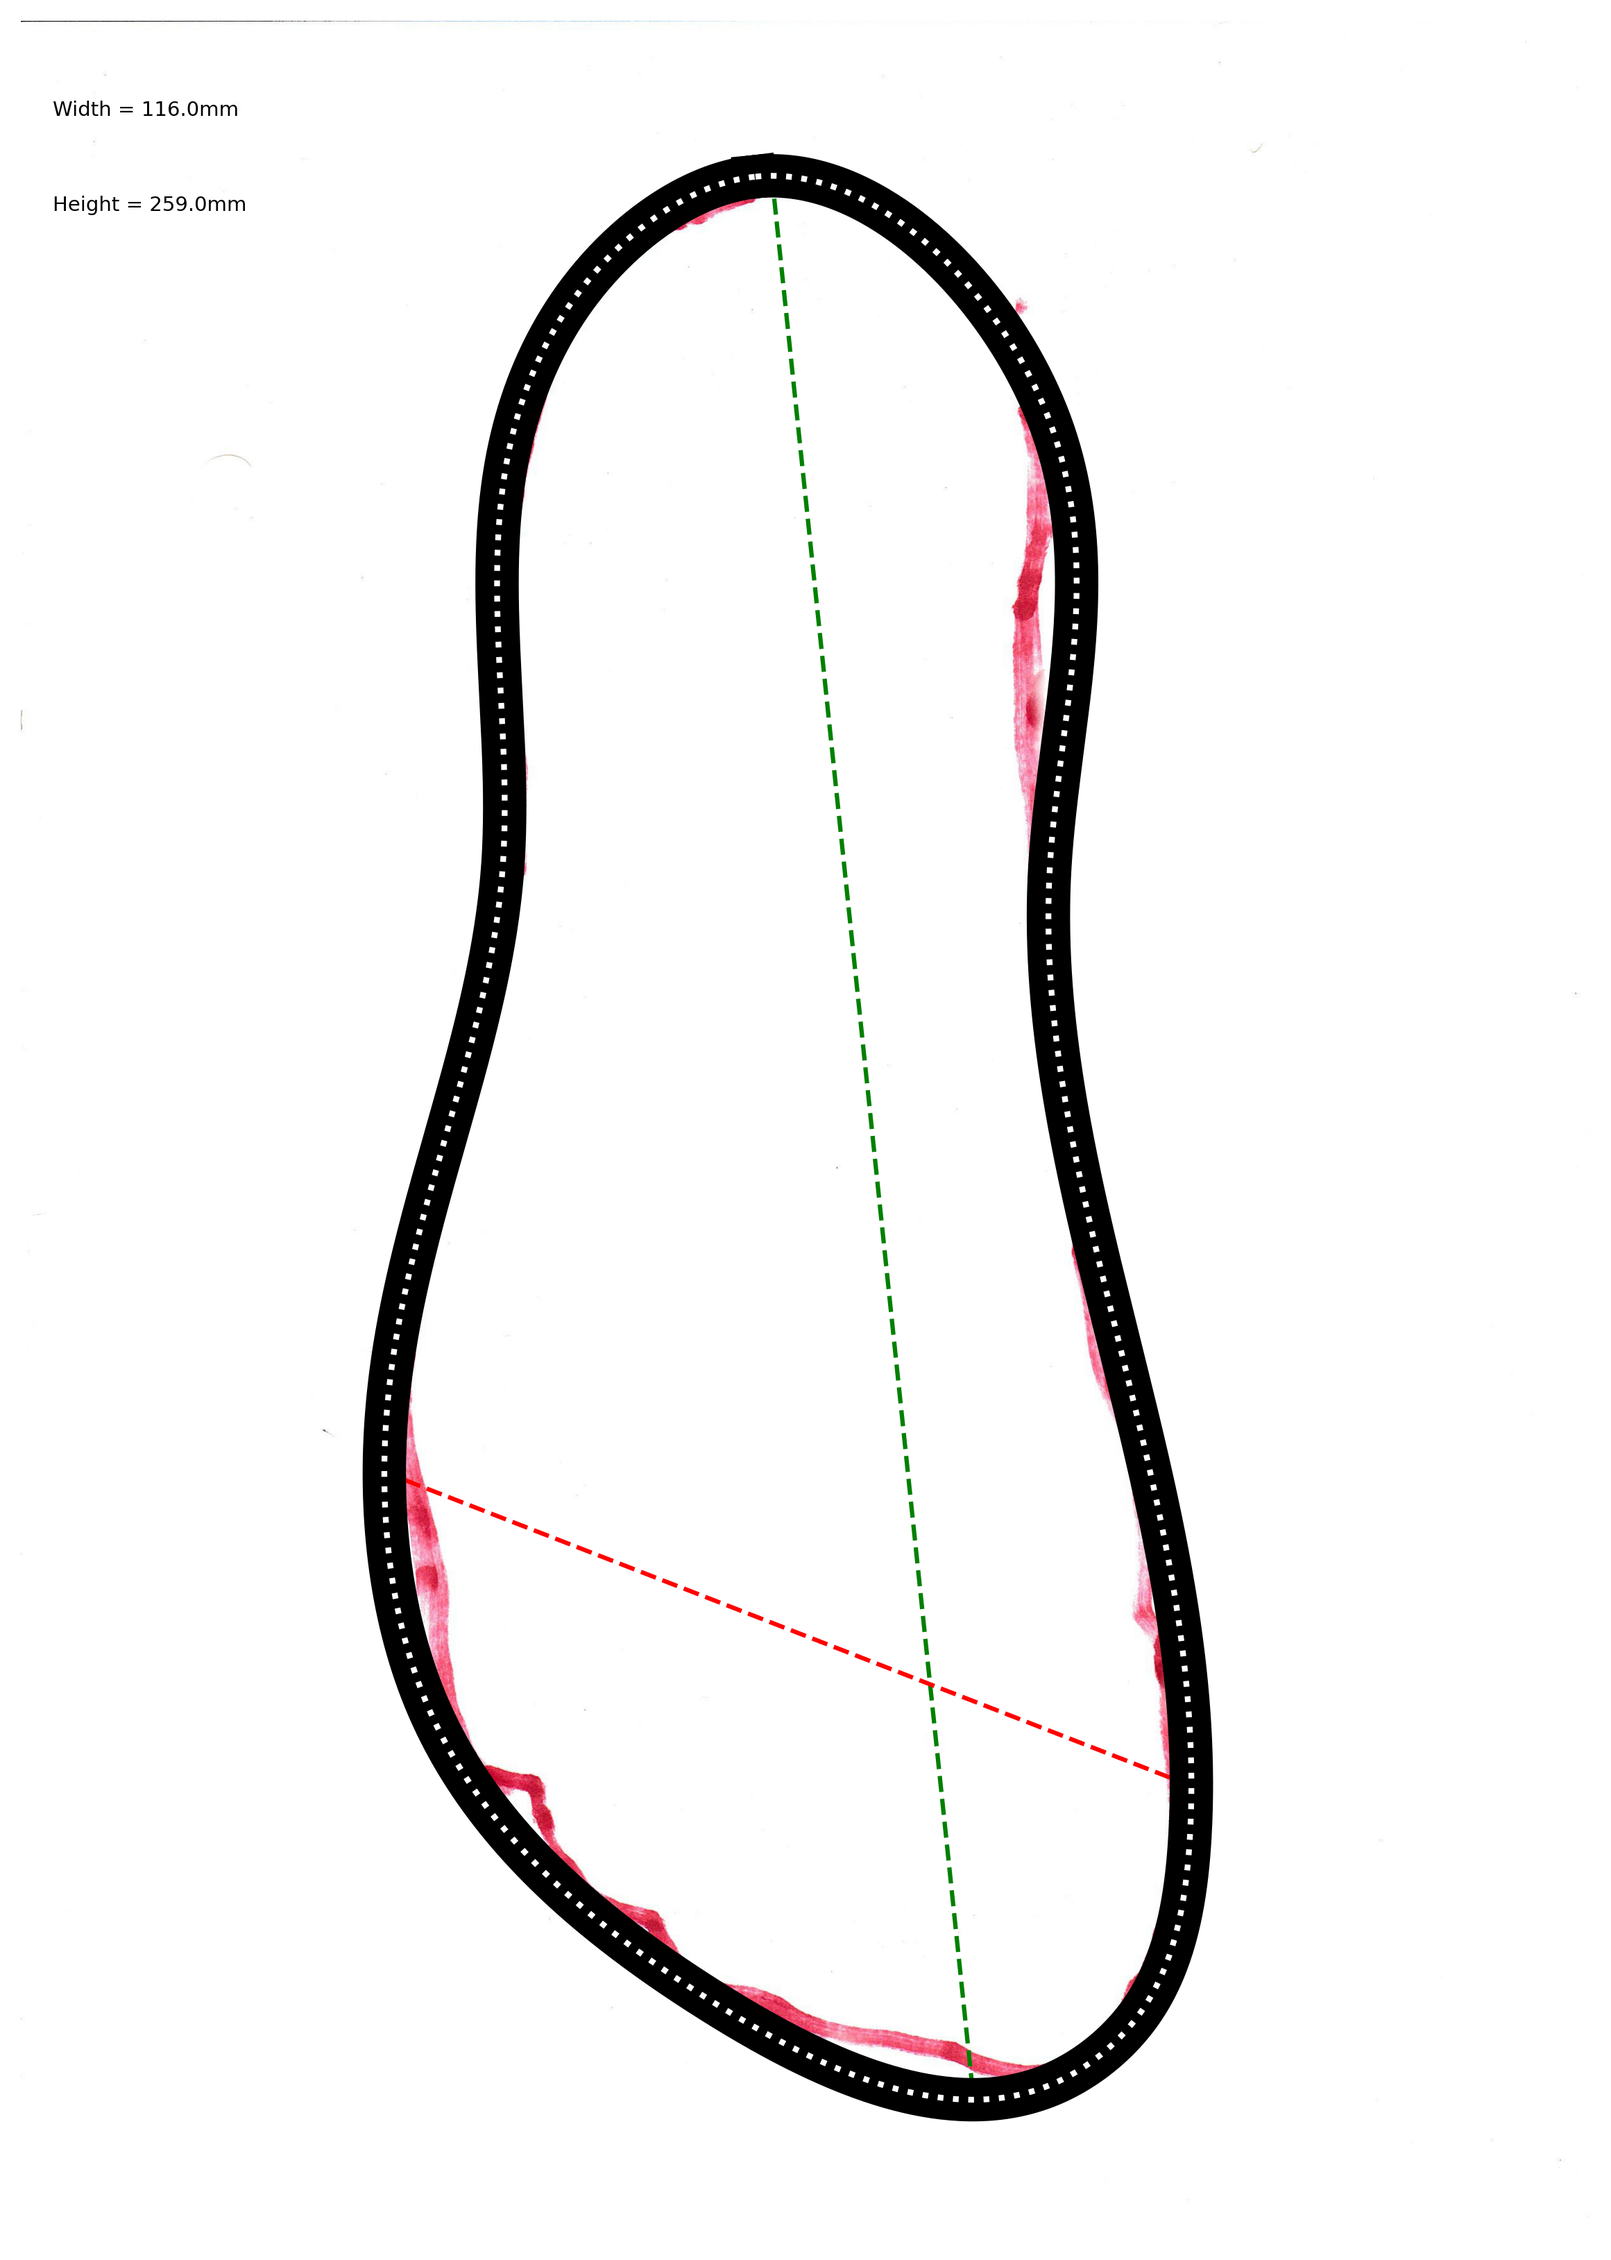
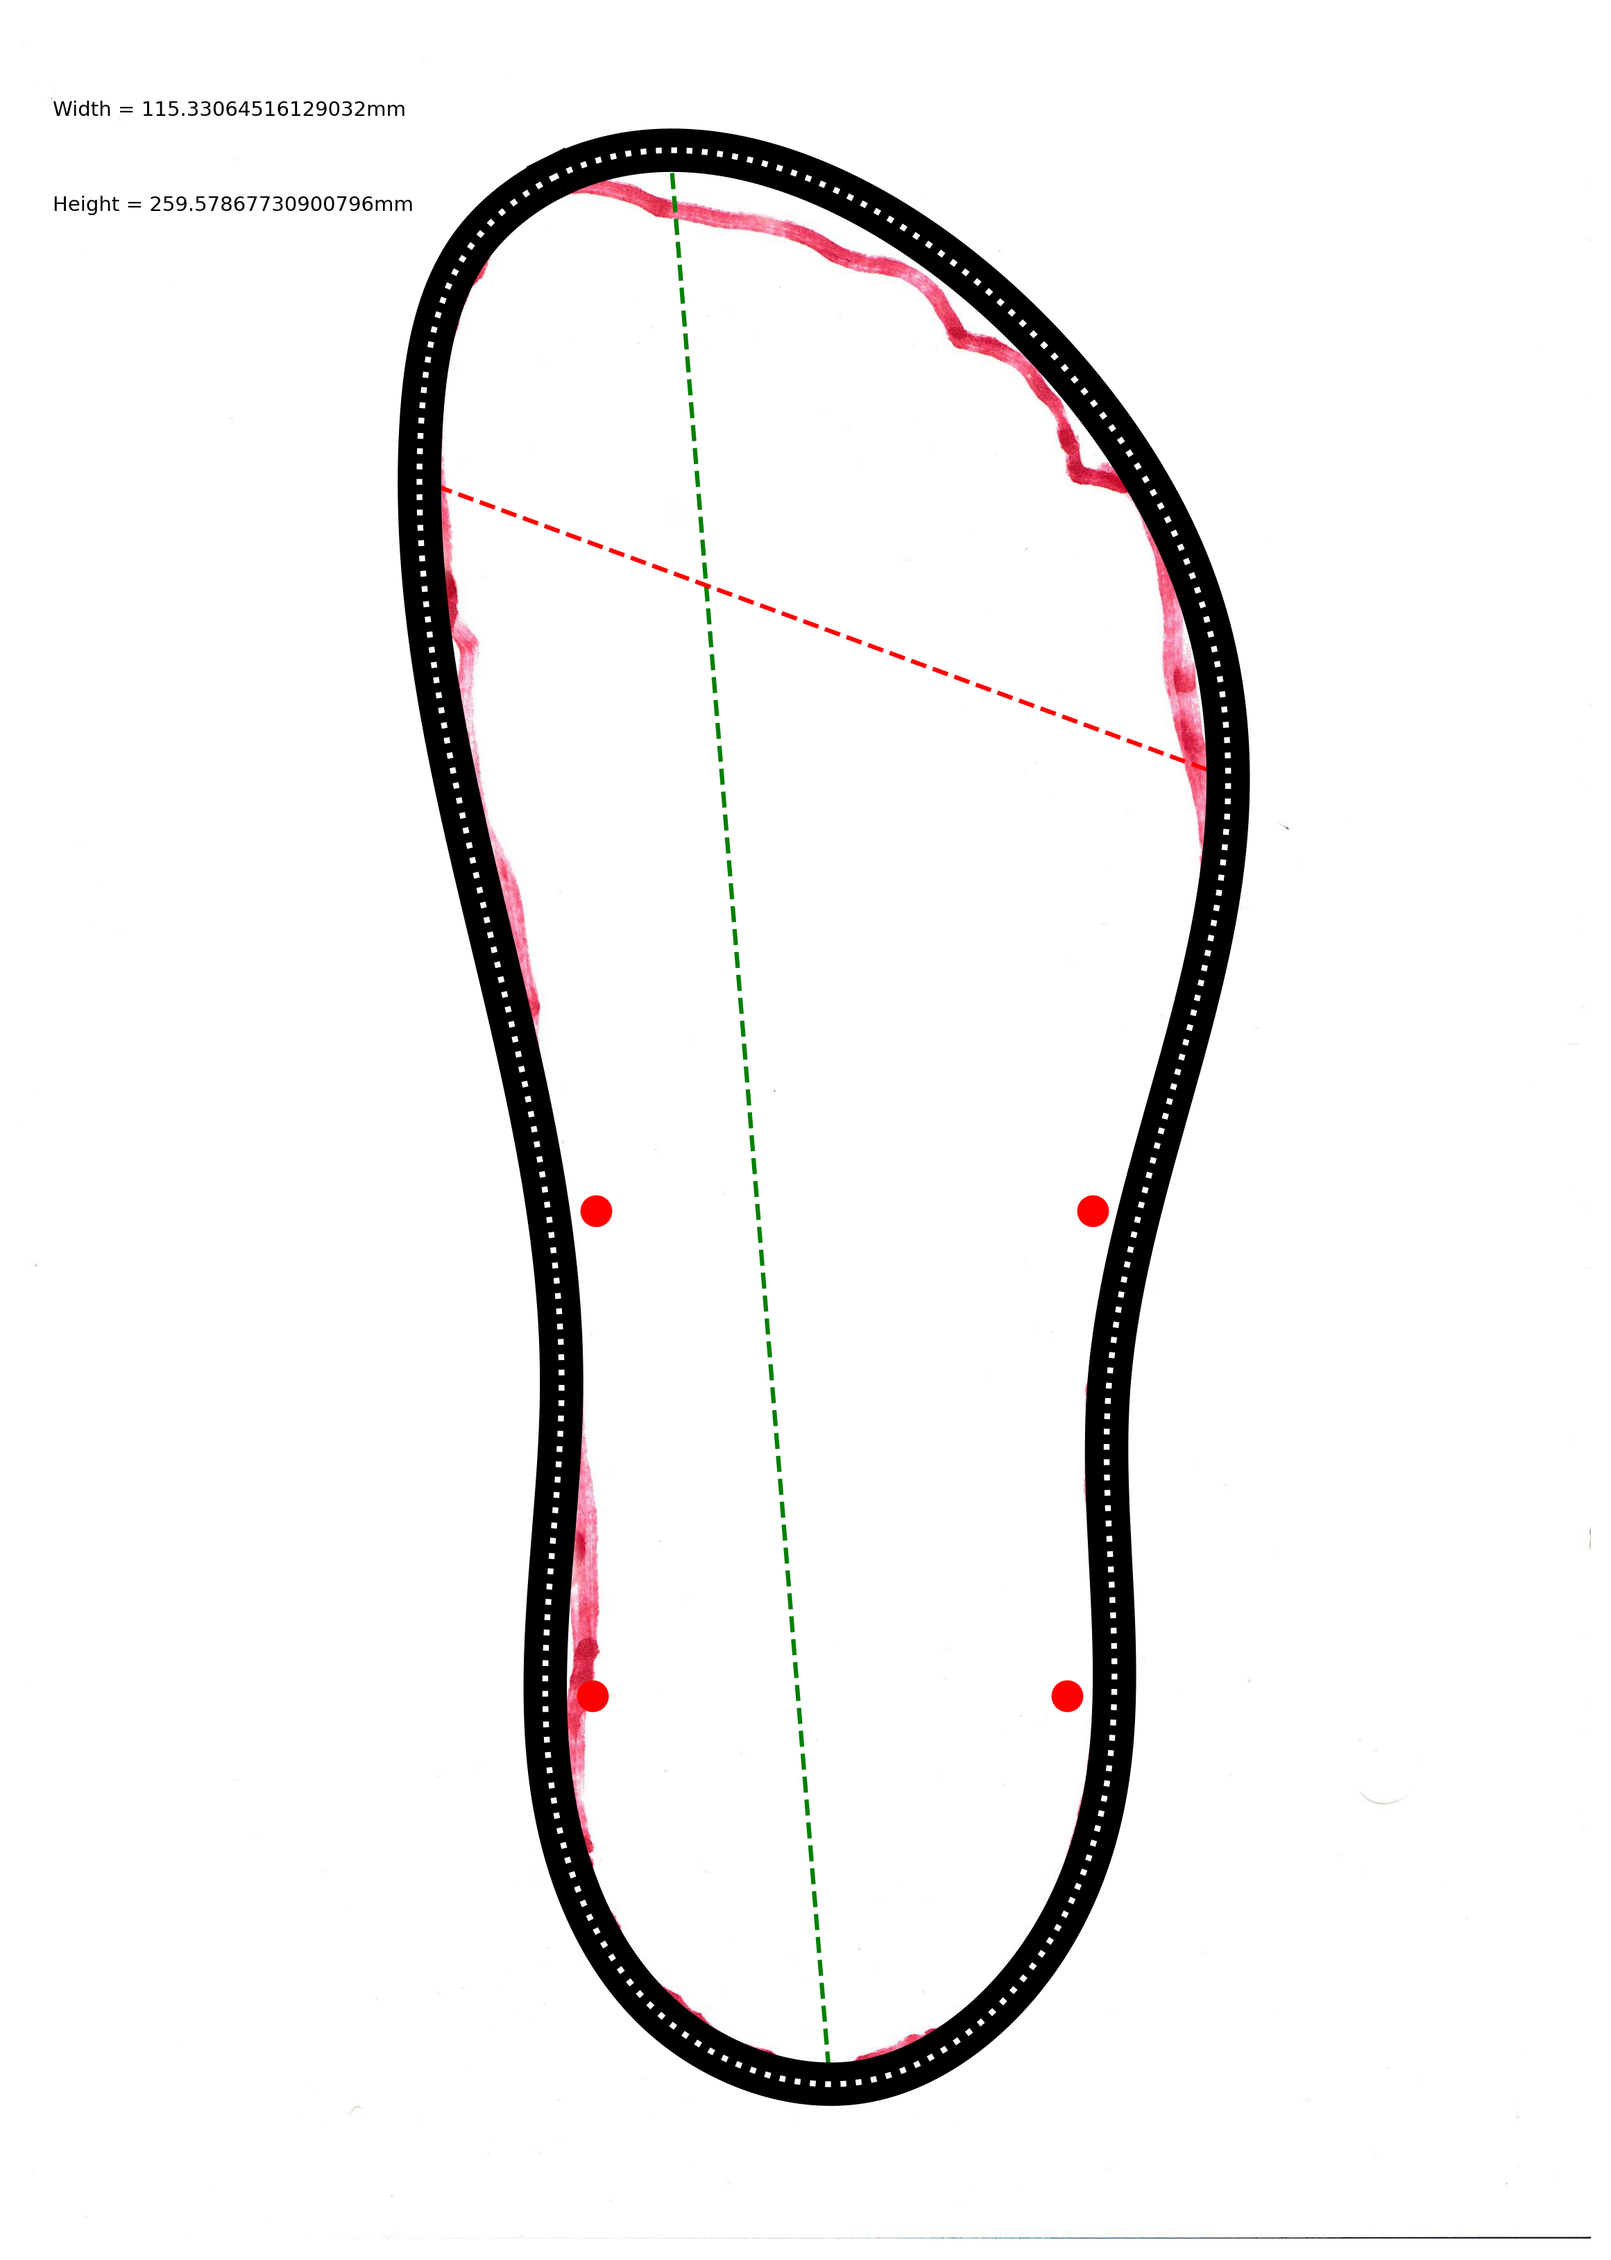
Can now add holes evenly to the image, just need to do top ones

diff --git a/TemplateCreator.py b/TemplateCreator.py
@@ -72,26 +72,53 @@ W_index = np.argmin(x)
 WX, WY = x[W_index], y[W_index]
 
 #A4 conversion
-pix2mmX = 210/2480
-pix2mmY = 297/3508
+A4_x, A4_y = 2480, 3508
+pix2mmX, pix2mmY= 210/A4_x, 297/A4_y
 
-width = np.around(np.sqrt((EX - WX)**2 + (EY - WY)**2) * pix2mmX)
-height = np.around(np.sqrt((NX - SX)**2 + (NY - SY)**2) * pix2mmY)
+width = np.around(np.sqrt((EX - WX)**2 + (EY - WY)**2))
+height = np.around(np.sqrt((NX - SX)**2 + (NY - SY)**2))
+
+#Bottom holes
+BottomY = SY - (height * 0.20)
+tolerance = 4
+PixelGap = 75
+indices_close = [i for i, y_val in enumerate(y) if abs(y_val - BottomY) < tolerance]
+BLHole = x[indices_close[0]] + PixelGap
+BRHole = x[indices_close[-1]] - PixelGap
+
+#Bottom holes
+MidY = SY - (height * 0.45)
+indices_close = [i for i, y_val in enumerate(y) if abs(y_val - MidY) < tolerance]
+MLHole = x[indices_close[0]] + PixelGap
+MRHole = x[indices_close[-1]] - PixelGap
 
 
+##################### SETTINGS #####################
 fig, ax = plt.subplots(figsize=(8.26772, 11.6929)) # A4 Paper
 fig.tight_layout()
 ax.axis('off')
 
+##################### IMAGE #####################
 ax.imshow(outline)
+
+##################### HEIGHT & WIDTH INFO #####################
 ax.plot([NX, SX], [NY, SY], 'g--')
 ax.plot([EX, WX], [EY, WY], 'r--')
+ax.text(50, 150, f"Width = {width * pix2mmX}mm", fontsize=7)
+ax.text(50, 300, f"Height = {height * pix2mmY}mm", fontsize=7)
 
+
+##################### OUTLINE & STITCHLINE #####################
 ax.plot(x, y, linestyle='solid', linewidth=15, color='black')
 ax.plot(x, y, linestyle='dotted', linewidth=2, color='white')
 
-ax.text(50, 150, f"Width = {width}mm", fontsize=7)
-ax.text(50, 300, f"Height = {height}mm", fontsize=7)
+##################### BOTTOM HOLES #####################
+ax.plot([BLHole, BRHole],[BottomY, BottomY], "ro", markersize=10)
+
+##################### BOTTOM HOLES #####################
+ax.plot([MLHole, MRHole],[MidY, MidY], "ro", markersize=10)
+
+
 
 fig.savefig('modified_a4_figure.png', dpi=300, bbox_inches='tight')  # Set dpi as needed (300 is standard for printing)
 plt.show()
